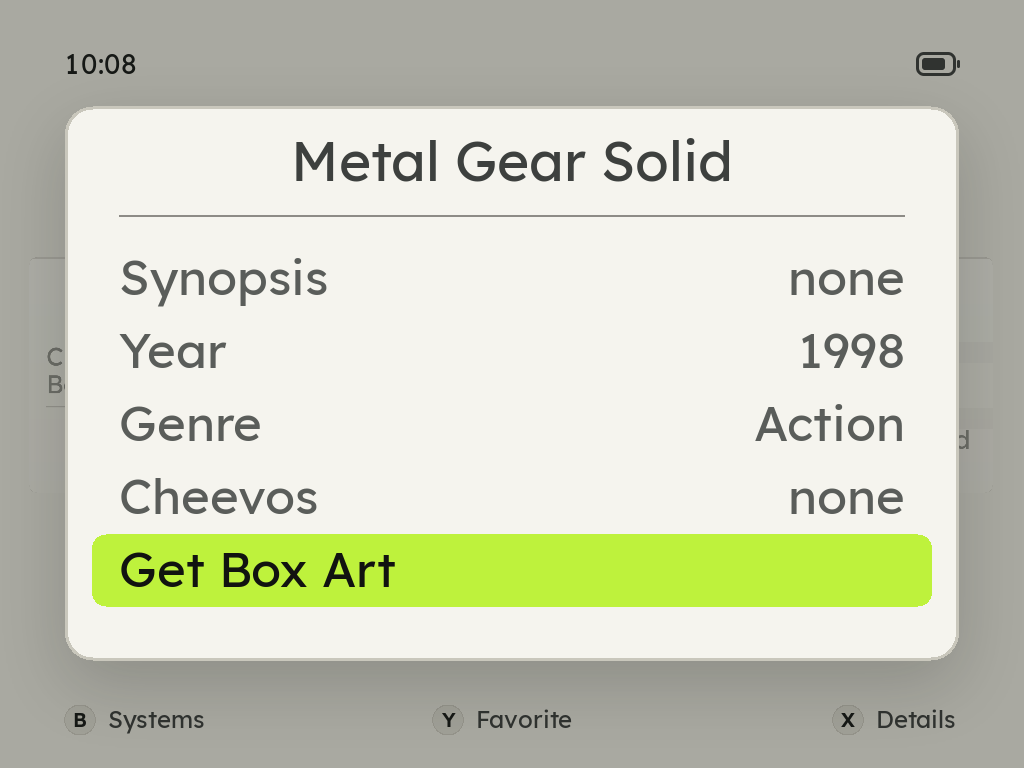
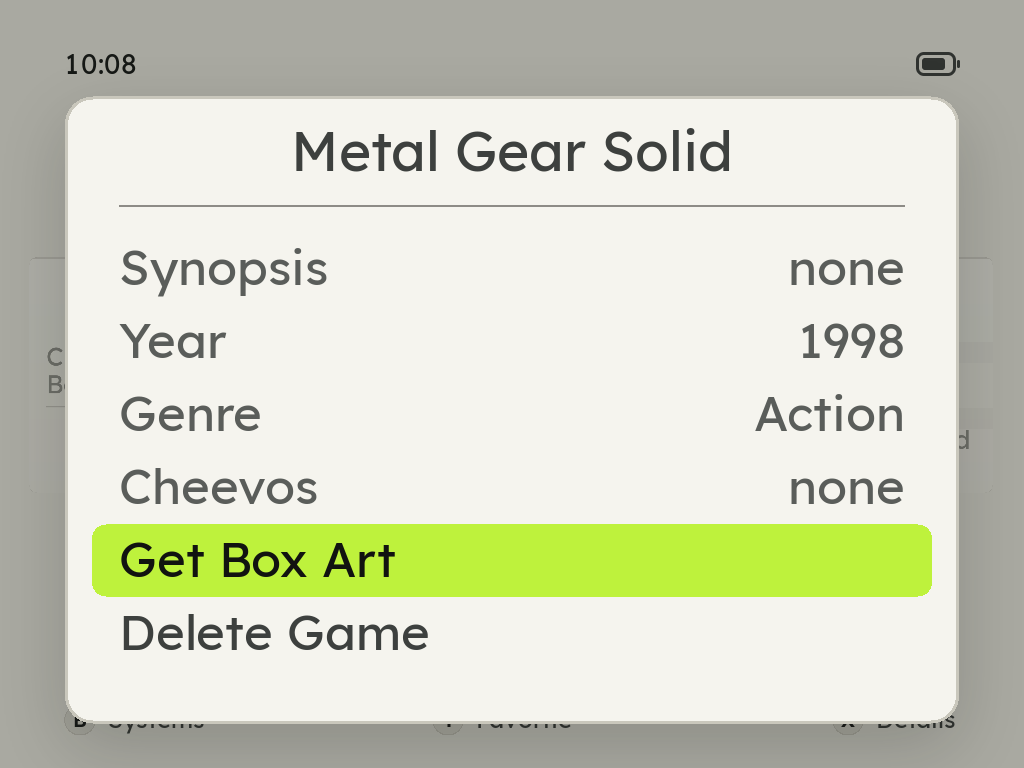
Delete Game's shots: the details with the row, and its question
The README shows both in its answer to deleting a game, in light, and info.png
is drawn again with the row. captures.json records them against the commit
that draws them.

Changed region(s): [[0.0625, 0.3125, 0.9375, 0.9688], [0.0625, 0.125, 0.9375, 0.2812], [0.7188, 0.3125, 0.9062, 0.5938]]

diff --git a/README.md b/README.md
@@ -429,6 +429,17 @@ With ScreenScraper linked, **MENU > Scraper > Video Snaps** can fetch each game'
 
 Press X on the game, choose **Delete Game** at the bottom of its details, and answer **Delete**. The cursor starts on **Cancel**, and B is Cancel too. It works from Favorites as well.
 
+<div align="center">
+
+<table>
+  <tr>
+    <td align="center"><img src="res/readme/info-delete.png" width="320" alt="A game's details, the cursor on Delete Game"><br><sub>Delete Game, the last row of a game's details</sub></td>
+    <td align="center"><img src="res/readme/delete-ask.png" width="320" alt="Delete Game's question: Delete Metal Gear Solid? Its saves and states, cover and video go too. This cannot be undone. Delete, and Cancel under the cursor"><br><sub>It asks first, on Cancel</sub></td>
+  </tr>
+</table>
+
+</div>
+
 What goes, and nothing else:
 
 - **The game:** its file, or its folder for a game in a folder of its own (a multi-disc set with its `.m3u`, a ScummVM game). A `.cue`, `.gdi` or `.toc` at the top of the folder takes the track files it names, and a `.cue` its `.sbi`. An arcade set is its `.zip`, and on NAOMI and Atomiswave the folder of its name that holds its CHD.
